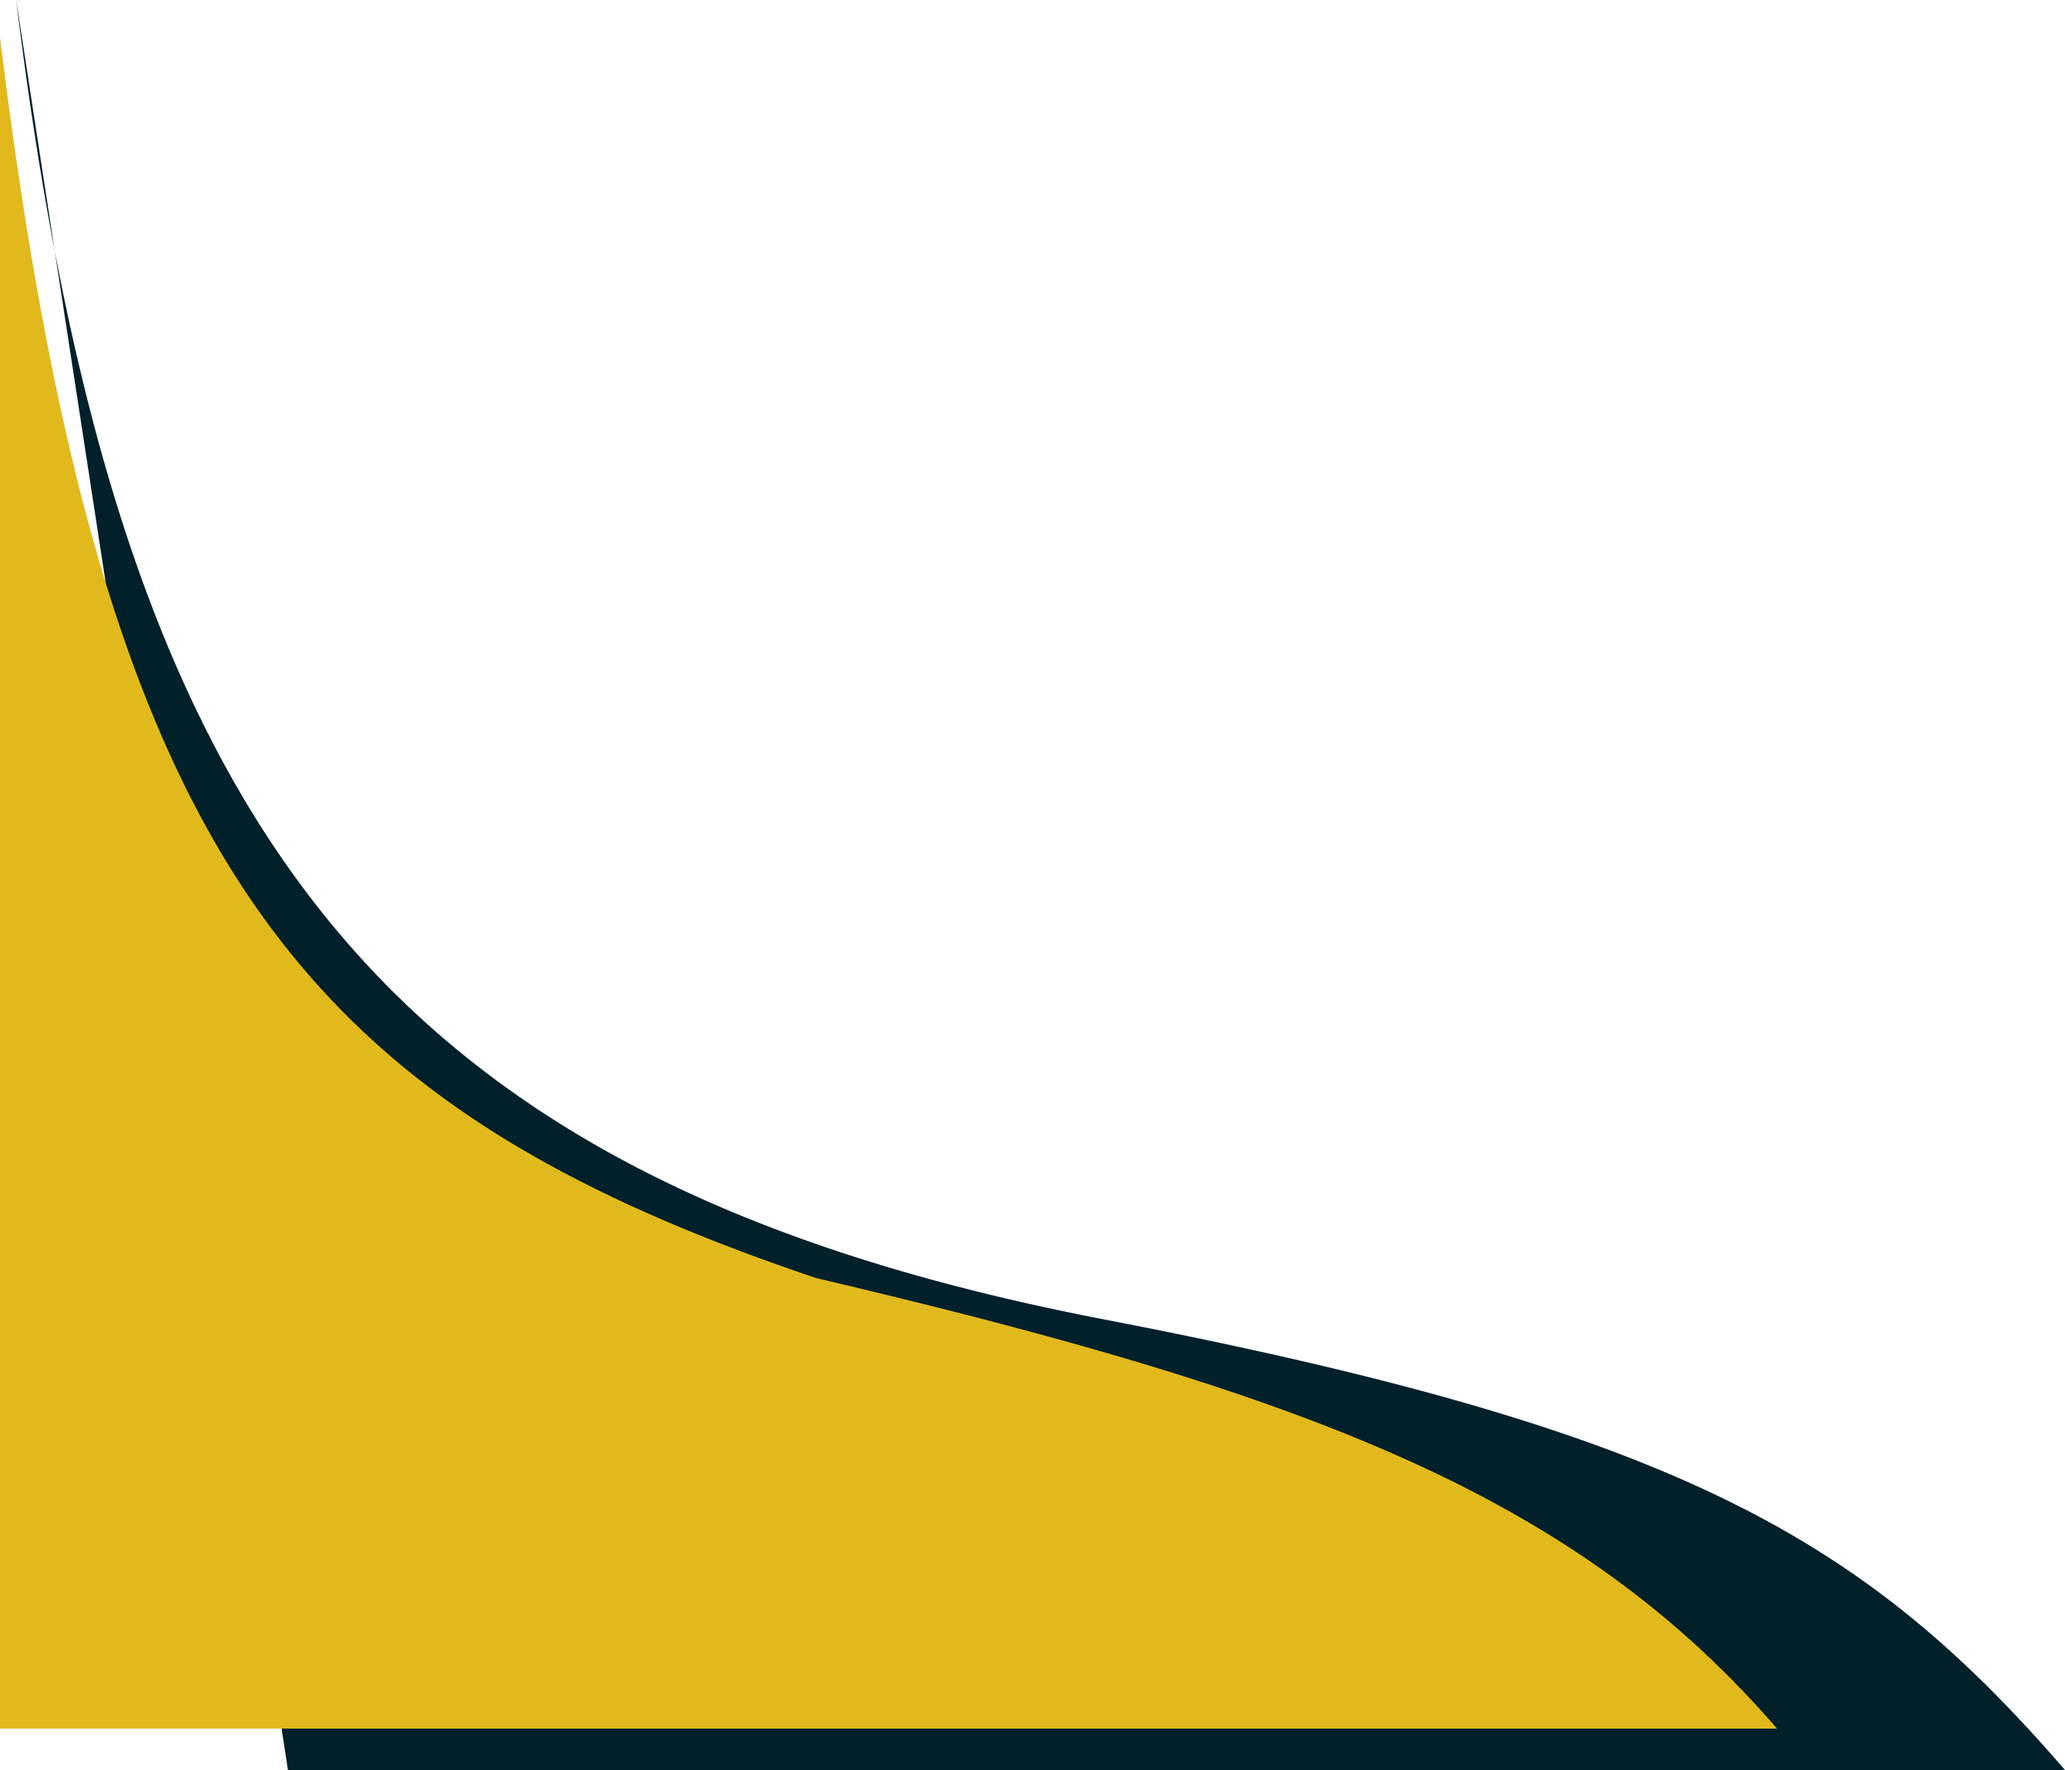
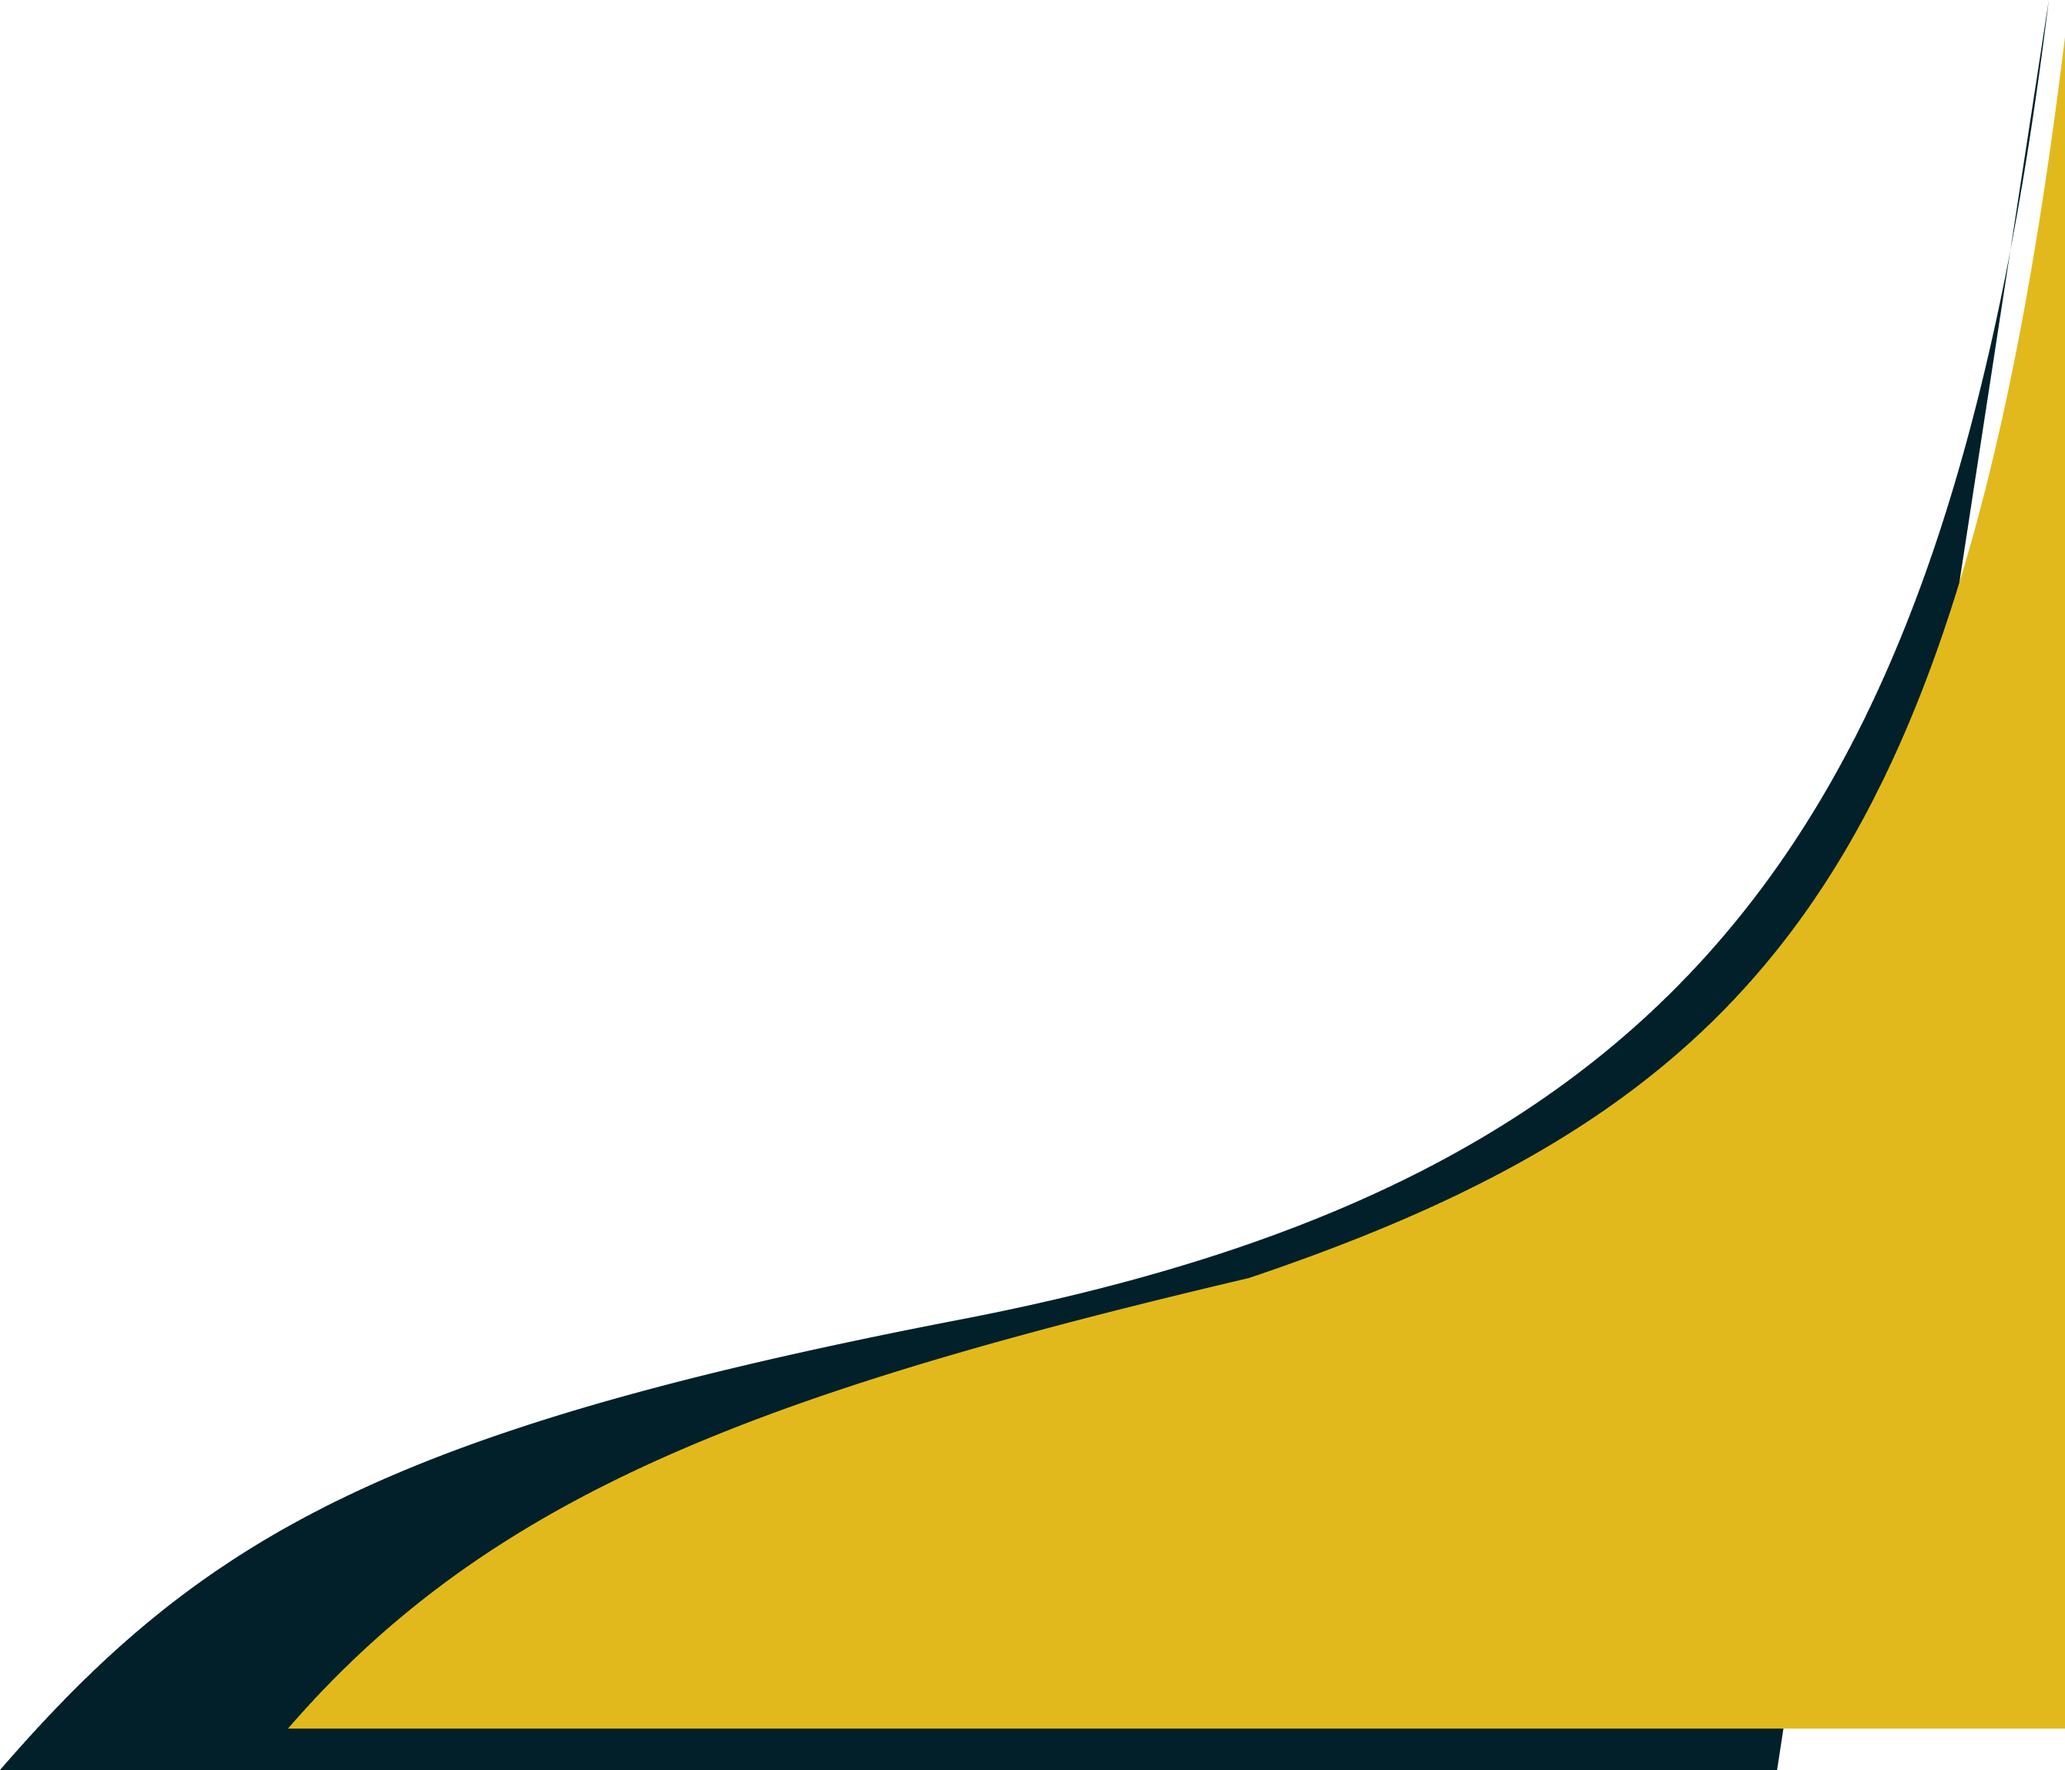
Added profile structure

diff --git a/src/components/Curriculum/Curriculum.scss b/src/components/Curriculum/Curriculum.scss
@@ -1,30 +1,83 @@
 @import '../../styles/index.scss';
 
 .curriculumn {
-  width: 100%;
-  height: 100%;
-  display: grid;
-  grid-template-rows: 20% auto;
-  grid-template-columns: 60% 40%;
-  grid-template-areas: 'name profile'
-                       'cv profile' ;
+    width: 90%;
+    margin: 0 auto;
+    height: 100%;
+    display: grid;
+    grid-template-rows: 25% auto;
+    grid-template-columns: 82% auto;
+    grid-template-areas:
+        'name profile'
+        'cv profile';
+  .curriculumn_name-container {
+    display: flex;
+    flex-direction: column;
+    justify-content: center;
+    align-items: center;
+    text-align: center;
+    padding: 1em 3em;
+    h2 {
+      font-size: 2.8em;
+      transition: .3s;
+    }
+    h2:hover {
+      color: $colorLigthBlue;
+    }
+    p {
+      font-size: 1.24em;
+    }
+  }                       
   &__profile-container {
+    background: #2D2D2D;
     grid-area: profile;
-    width: 200px;
-    img {
+    display: grid;
+    grid-template-rows: 26% auto;
+    position: relative;
+    top: 20%;
+    height: 80%;
+    border-radius: 2em;
+    box-shadow: 7px 7px 19px -2px rgba(0,0,0,0.75);
+    .cover-container {
+      position: relative;
+      display: flex;
+      justify-content: center;
+      align-items: center;
       width: 100%;
+      height: 100%;
+        img {
+          width: 110%;
+          position: relative;
+          top: -54%;
+          left: 0%;
+          height: auto;
+          transition: .3s;
+        }
+        img:hover {
+          width: 112%;
+        }
+    }
+    
+    .contact-container {
+      display: flex;
+      flex-direction: column;
+      .info__contact {
+        border: red 1px solid;
+        padding: .5em;
+      }
     }
   }
   &__cv-container {
     grid-area: cv;
-    
+    padding: 0 3em;
+    .cv-container__professional-profile {
+      p {
+        margin: 1em 0;
+      }
+    }
   }
 }
-.cv-container__professional-profile {
-  p {
-    margin-top: 1em;
-  }
-}
+
 
 .professional-profile__header {
   display: grid;

diff --git a/src/components/Curriculum/Curriculum.jsx b/src/components/Curriculum/Curriculum.jsx
@@ -6,7 +6,7 @@ import Experience from './Experience/Experience';
 import cv from '../../cv';
 
 const Curriculum = () => {
-  const { name, ocupation, profesionalProfile, experience } = cv;
+  const { name, ocupation, profesionalProfile, experience, phone, email, location } = cv;
   return (
     <div className='curriculumn'>
       <div className='curriculumn_name-container'>
@@ -14,8 +14,25 @@ const Curriculum = () => {
         <p>{ocupation}</p>
       </div>
       <div className='curriculumn__profile-container'>
-        <img className='' src={ProfilePhoto} alt='Profile' />
-
+        <div className='cover-container'>
+          <img src={ProfilePhoto} alt='Profile' />
+        </div>
+        <div className='container__info'>
+          <div className='contact-container'>
+            <div className='info__contact phone'>
+              <i className='fas fa-phone-alt' />
+              phone
+            </div>
+            <div className='info__contact email'>
+              <i className='fas fa-envelope' />
+              email
+            </div>
+            <div className='info__contact location'>
+              <i className='fas fa-street-view' />
+              location
+            </div>
+          </div>
+        </div>
       </div>
       <div className='curriculumn__cv-container'>
         <div className='cv-container__professional-profile'>

diff --git a/src/components/Curriculum/ExperienceItem/ExperienceItem.jsx b/src/components/Curriculum/ExperienceItem/ExperienceItem.jsx
@@ -1,9 +1,30 @@
 import React from 'react';
 
+import './ExperienceItem.scss';
+
 const ExperienceItem = ({ item }) => {
+  const { company, cover, role, contract, startDate, endDate, description } = item;
   return (
     <div className='experience-item'>
-      {item.company}
+      <div className='experience-item__cover'>
+        <img src={cover} alt='cover' />
+      </div>
+      <div className='experience-item__info'>
+        <h4>{role}</h4>
+        <div className='company'>
+          <p>{company}</p>
+          -
+          <p className='company-contract'>{contract}</p>
+        </div>
+        <div className='time'>
+          <p>{startDate}</p>
+          -
+          <p>
+            {endDate}
+          </p>
+        </div>
+        <p>{description}</p>
+      </div>
     </div>
   );
 };

diff --git a/src/cv.js b/src/cv.js
@@ -19,12 +19,12 @@ const CV = {
   'experience': [
     {
       'company': 'Platzi Master',
+      'cover': 'https://static.platzi.com/media/avatars/Platzi-f730e65b-e92b-44d3-81c0-5c59c4dc4658.png',
       'role': 'Master Student',
       'contract': 'Contrato de prácticas',
       'startDate': '01/01/2019',
-      'endDate': '',
+      'endDate': 'Actually',
       'description': "Actually I design User interfaces for then make magic with Node and React.js also I am a part of the biggest latinoamerican developer community, where constantly I improve my skills and at the same time I have the opportunity to teach what I've learned",
-
     },
   ],
 };

diff --git a/src/components/Curriculum/ExperienceItem/ExperienceItem.scss b/src/components/Curriculum/ExperienceItem/ExperienceItem.scss
@@ -1,0 +1,38 @@
+.experience-item {
+  margin-top: 1em;
+  display: grid;
+  grid-template-columns: 15% 1fr;
+  &__cover {
+    padding: 1em;
+    display: flex;
+    justify-content: center;
+    align-items: flex-start;
+    img {
+      width: 70%;
+    }
+  }
+  &__info {
+    position: relative;
+    display: grid;
+    grid-gap: .5em;
+    .company {
+      display: flex;
+      p {
+        margin-right: .5em;
+      }
+      .company-contract {
+        margin-left: .5em;
+
+      }
+    }
+    .time {
+      position: absolute;
+      top: 0;
+      right: 0;
+      display: flex;
+      p {
+        margin: 0 .5em;
+      }
+    }
+  }
+}

diff --git a/src/components/Curriculum/Experience/Experience.jsx b/src/components/Curriculum/Experience/Experience.jsx
@@ -1,11 +1,17 @@
 import React from 'react';
 import ExperienceItem from '../ExperienceItem/ExperienceItem';
+import WorkIcon from '../../../assets/work.png';
+
+import './Experience.scss';
 
 const Experience = ({ experience }) => {
   return (
-    <div className='experience-item'>
-      hola experiensa
-      {experience.map((experienceItem)=> (
+    <div className='experience'>
+      <div className='experience__header'>
+        <img src={WorkIcon} alt='workicon' />
+        <h3>Experience</h3>
+      </div>
+      {experience.map((experienceItem) => (
         <ExperienceItem item={experienceItem} />
       ))}
     </div>

diff --git a/src/components/Provider/Provider.scss b/src/components/Provider/Provider.scss
@@ -13,12 +13,12 @@
     position: absolute;
   }
   .top-corner {
-    top: -5%;
-    right: -5%;
+    top: -1%;
+    left: -6%;
   }
   .bottom-corner {
     bottom: -3%;
-    left: -3%;
+    left: 70%;
   }
   .social-media {
     position: absolute;
@@ -28,10 +28,13 @@
     left: 2%;
     .fab {
       margin: .3em;
-      
+      transition: .3s;
+    }
+    .fab:hover {
+      transform: scale(1.2);;
     }
     .fa-linkedin-in{
-      color: $colorLigthBlue;
+      color: white;
     }
   }
  

diff --git a/src/components/Curriculum/Experience/Experience.scss b/src/components/Curriculum/Experience/Experience.scss
@@ -1,0 +1,13 @@
+@import '../../../styles/index.scss';
+
+.experience {
+  &__header {
+    border-bottom: $colorFontMain solid 1px ;
+    display: flex;
+    align-items: center;
+    img {
+       width: 40px;
+       margin-right: 1em;
+    }
+  }
+}
